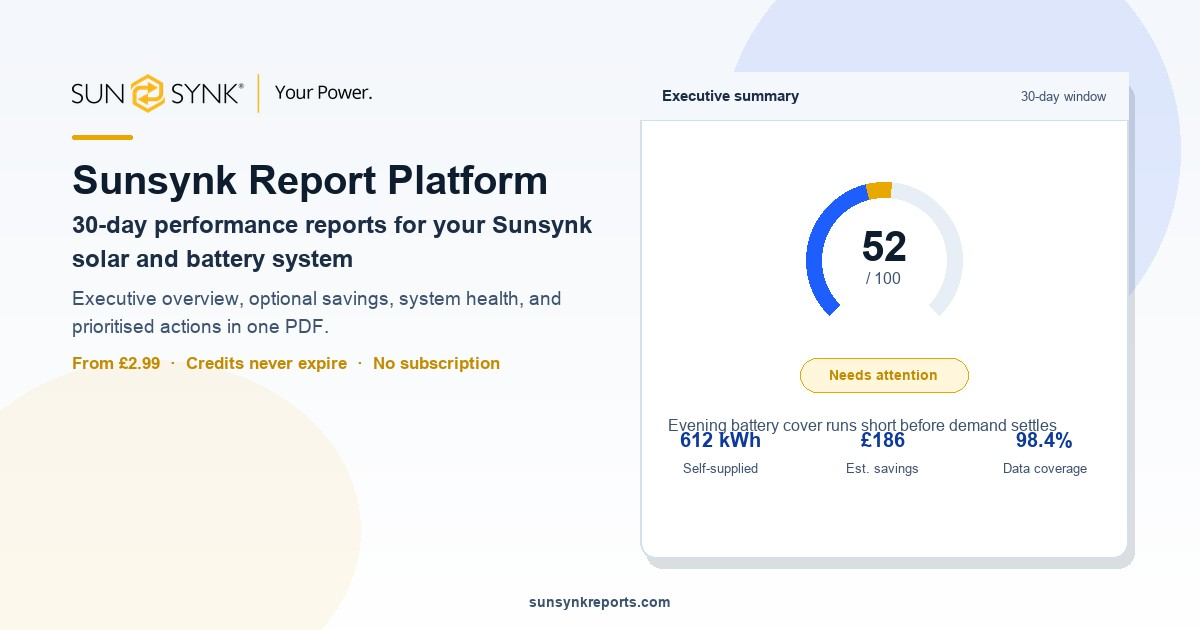
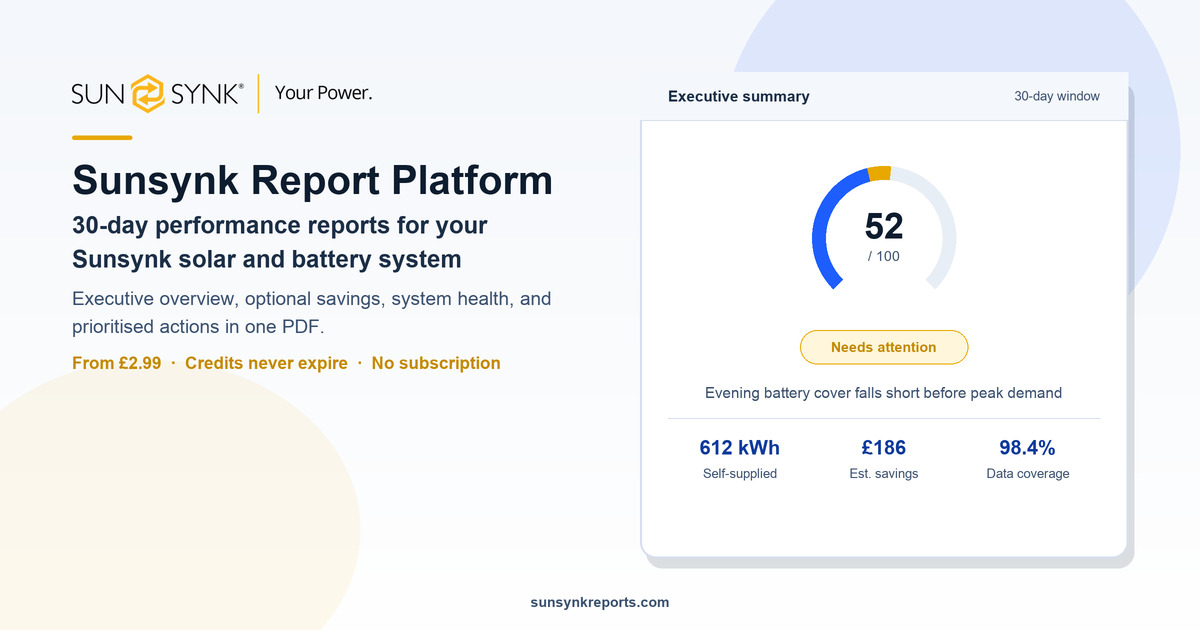
Update brand assets and improve image generation script for enhanced visual consistency
- Replaced existing Open Graph and Twitter images with updated versions for better branding.
- Refactored the image generation script to scale dimensions dynamically, improving adaptability across different resolutions.
- Enhanced text rendering in the generated images by adjusting font sizes and positions based on image dimensions, ensuring clarity and visual appeal.

diff --git a/scripts/generate-brand-assets.py b/scripts/generate-brand-assets.py
@@ -3,7 +3,6 @@
 
 from __future__ import annotations
 
-import math
 import os
 from pathlib import Path
 
@@ -83,125 +82,196 @@ def wrap_text(draw: ImageDraw.ImageDraw, text: str, font: ImageFont.ImageFont, m
 
 def draw_score_ring(draw: ImageDraw.ImageDraw, cx: int, cy: int, radius: int, score: int) -> None:
     bbox = [cx - radius, cy - radius, cx + radius, cy + radius]
-    draw.arc(bbox, 135, 405, fill=SLATE_100, width=16)
+    draw.arc(bbox, 135, 405, fill=SLATE_100, width=max(12, radius // 5))
     progress = score / 100
     end_angle = 135 + 270 * progress
-    draw.arc(bbox, 135, end_angle, fill=BLUE, width=16)
+    draw.arc(bbox, 135, end_angle, fill=BLUE, width=max(12, radius // 5))
     if progress > 0.45:
         mid = 135 + 270 * 0.45
-        draw.arc(bbox, mid, min(end_angle, 135 + 270 * 0.72), fill=GOLD, width=16)
-    score_font = load_font(42, bold=True)
-    sub_font = load_font(16)
-    draw.text((cx, cy - 14), str(score), fill=SLATE_900, font=score_font, anchor="mm")
-    draw.text((cx, cy + 18), "/ 100", fill=SLATE_600, font=sub_font, anchor="mm")
+        draw.arc(bbox, mid, min(end_angle, 135 + 270 * 0.72), fill=GOLD, width=max(12, radius // 5))
+    score_font = load_font(max(28, radius // 2), bold=True)
+    sub_font = load_font(max(12, radius // 5))
+    draw.text((cx, cy - radius // 6), str(score), fill=SLATE_900, font=score_font, anchor="mm")
+    draw.text((cx, cy + radius // 4), "/ 100", fill=SLATE_600, font=sub_font, anchor="mm")
+
+
+def text_block_height(lines: list[str], line_height: int) -> int:
+    if not lines:
+        return 0
+    return len(lines) * line_height
+
+
+def draw_text_lines(
+    draw: ImageDraw.ImageDraw,
+    lines: list[str],
+    x: int,
+    y: int,
+    font: ImageFont.ImageFont,
+    fill: str,
+    line_height: int,
+    align: str = "left",
+    box_width: int | None = None,
+) -> int:
+    """Draw lines and return the y position after the last line."""
+    for i, line in enumerate(lines):
+        ly = y + i * line_height
+        if align == "center" and box_width is not None:
+            draw.text((x + box_width // 2, ly), line, fill=fill, font=font, anchor="ma")
+        else:
+            draw.text((x, ly), line, fill=fill, font=font)
+    return y + text_block_height(lines, line_height)
 
 
 def generate_og_image() -> Image.Image:
-    w, h = 1200, 630
+    scale = 2
+    w, h = 1200 * scale, 630 * scale
     img = vertical_gradient((w, h), SLATE_50, WHITE)
     draw = ImageDraw.Draw(img)
+
+    def s(v: int | float) -> int:
+        return int(round(v * scale))
 
     # Soft brand glow
     glow = Image.new("RGBA", (w, h), (0, 0, 0, 0))
     glow_draw = ImageDraw.Draw(glow)
-    glow_draw.ellipse((720, -80, 1180, 380), fill=(30, 94, 255, 28))
-    glow_draw.ellipse((-60, 360, 360, 700), fill=(232, 168, 0, 18))
+    glow_draw.ellipse((s(720), s(-80), s(1180), s(380)), fill=(30, 94, 255, 28))
+    glow_draw.ellipse((s(-60), s(360), s(360), s(700)), fill=(232, 168, 0, 18))
     img = Image.alpha_composite(img.convert("RGBA"), glow).convert("RGB")
     draw = ImageDraw.Draw(img)
 
     # Left copy block
     logo = Image.open(ASSETS / "sunsynk-logo.png").convert("RGBA")
-    logo_w = 300
+    logo_w = s(300)
     logo_h = int(logo.height * (logo_w / logo.width))
     logo = logo.resize((logo_w, logo_h), Image.Resampling.LANCZOS)
-    paste_rgba(img, logo, (72, 74))
+    paste_rgba(img, logo, (s(72), s(74)))
 
-    draw.rounded_rectangle((72, 74 + logo_h + 22, 132, 74 + logo_h + 26), radius=2, fill=GOLD)
+    draw.rounded_rectangle((s(72), s(74) + logo_h + s(22), s(132), s(74) + logo_h + s(26)), radius=s(2), fill=GOLD)
 
-    title_font = load_font(40, bold=True)
-    sub_font = load_font(24, bold=True)
-    body_font = load_font(19)
-    meta_font = load_font(17, bold=True)
+    title_font = load_font(s(40), bold=True)
+    sub_font = load_font(s(24), bold=True)
+    body_font = load_font(s(19))
+    meta_font = load_font(s(17), bold=True)
 
-    y = 74 + logo_h + 44
-    draw.text((72, y), "Sunsynk Report Platform", fill=SLATE_900, font=title_font)
-    y += 54
+    y = s(74) + logo_h + s(44)
+    draw.text((s(72), y), "Sunsynk Report Platform", fill=SLATE_900, font=title_font)
+    y += s(54)
 
     for line in wrap_text(
         draw,
         "30-day performance reports for your Sunsynk solar and battery system",
         sub_font,
-        520,
+        s(520),
     ):
-        draw.text((72, y), line, fill=SLATE_800, font=sub_font)
-        y += 34
+        draw.text((s(72), y), line, fill=SLATE_800, font=sub_font)
+        y += s(34)
 
-    y += 8
+    y += s(8)
     for line in wrap_text(
         draw,
         "Executive overview, optional savings, system health, and prioritised actions in one PDF.",
         body_font,
-        520,
+        s(520),
     ):
-        draw.text((72, y), line, fill=SLATE_600, font=body_font)
-        y += 28
+        draw.text((s(72), y), line, fill=SLATE_600, font=body_font)
+        y += s(28)
 
-    y += 10
-    draw.text((72, y), "From £2.99  ·  Credits never expire  ·  No subscription", fill=GOLD_DARK, font=meta_font)
+    y += s(10)
+    draw.text((s(72), y), "From £2.99  ·  Credits never expire  ·  No subscription", fill=GOLD_DARK, font=meta_font)
 
     # Right preview card
-    card_x, card_y, card_w, card_h = 640, 72, 488, 486
+    card_x, card_y, card_w, card_h = s(640), s(72), s(488), s(486)
+    pad = s(28)
+    inner_w = card_w - pad * 2
+
     shadow = Image.new("RGBA", (w, h), (0, 0, 0, 0))
     shadow_draw = ImageDraw.Draw(shadow)
     shadow_draw.rounded_rectangle(
-        (card_x + 6, card_y + 10, card_x + card_w + 6, card_y + card_h + 10),
-        radius=16,
+        (card_x + s(6), card_y + s(10), card_x + card_w + s(6), card_y + card_h + s(10)),
+        radius=s(16),
         fill=(13, 28, 46, 36),
     )
     img = Image.alpha_composite(img.convert("RGBA"), shadow).convert("RGB")
     draw = ImageDraw.Draw(img)
 
-    draw.rounded_rectangle((card_x, card_y, card_x + card_w, card_y + card_h), radius=16, fill=WHITE, outline=SLATE_200, width=2)
-    draw.rectangle((card_x, card_y, card_x + card_w, card_y + 48), fill=SLATE_50)
-    draw.line((card_x, card_y + 48, card_x + card_w, card_y + 48), fill=SLATE_200, width=1)
-    bar_font = load_font(15, bold=True)
-    draw.text((card_x + 22, card_y + 24), "Executive summary", fill=SLATE_800, font=bar_font, anchor="lm")
-
-    draw.text((card_x + card_w - 22, card_y + 24), "30-day window", fill=SLATE_600, font=load_font(13), anchor="rm")
+    draw.rounded_rectangle(
+        (card_x, card_y, card_x + card_w, card_y + card_h),
+        radius=s(16),
+        fill=WHITE,
+        outline=SLATE_200,
+        width=s(2),
+    )
+    header_h = s(48)
+    draw.rectangle((card_x, card_y, card_x + card_w, card_y + header_h), fill=SLATE_50)
+    draw.line((card_x, card_y + header_h, card_x + card_w, card_y + header_h), fill=SLATE_200, width=s(1))
+    bar_font = load_font(s(15), bold=True)
+    draw.text((card_x + pad, card_y + header_h // 2), "Executive summary", fill=SLATE_800, font=bar_font, anchor="lm")
+    draw.text((card_x + card_w - pad, card_y + header_h // 2), "30-day window", fill=SLATE_600, font=load_font(s(13)), anchor="rm")
 
     ring_cx = card_x + card_w // 2
-    ring_cy = card_y + 188
-    draw_score_ring(draw, ring_cx, ring_cy, 78, 52)
+    ring_cy = card_y + header_h + s(118)
+    draw_score_ring(draw, ring_cx, ring_cy, s(72), 52)
 
-    pill_font = load_font(14, bold=True)
-    pill_w, pill_h = 168, 34
+    pill_font = load_font(s(14), bold=True)
+    pill_w, pill_h = s(168), s(34)
     pill_x = ring_cx - pill_w // 2
-    pill_y = ring_cy + 98
-    draw.rounded_rectangle((pill_x, pill_y, pill_x + pill_w, pill_y + pill_h), radius=17, fill="#fff6db", outline=GOLD, width=1)
-    draw.text((ring_cx, pill_y + 17), "Needs attention", fill=GOLD_DARK, font=pill_font, anchor="mm")
+    pill_y = ring_cy + s(92)
+    draw.rounded_rectangle(
+        (pill_x, pill_y, pill_x + pill_w, pill_y + pill_h),
+        radius=pill_h // 2,
+        fill="#fff6db",
+        outline=GOLD,
+        width=s(1),
+    )
+    draw.text((ring_cx, pill_y + pill_h // 2), "Needs attention", fill=GOLD_DARK, font=pill_font, anchor="mm")
 
-    issue_font = load_font(16)
-    for i, line in enumerate(
-        wrap_text(draw, "Evening battery cover runs short before demand settles", issue_font, card_w - 56)
-    ):
-        draw.text((card_x + 28, pill_y + 58 + i * 24), line, fill=SLATE_600, font=issue_font)
+    issue_font = load_font(s(15))
+    issue_line_h = s(22)
+    issue_lines = wrap_text(
+        draw,
+        "Evening battery cover falls short before peak demand",
+        issue_font,
+        inner_w,
+    )
+    issue_top = pill_y + pill_h + s(20)
+    issue_bottom = draw_text_lines(
+        draw,
+        issue_lines,
+        card_x + pad,
+        issue_top,
+        issue_font,
+        SLATE_600,
+        issue_line_h,
+        align="center",
+        box_width=inner_w,
+    )
 
-    stat_y = card_y + card_h - 118
+    # Stats block — always below issue text with clear separation
+    stats_top = issue_bottom + s(22)
+    draw.line(
+        (card_x + pad, stats_top - s(10), card_x + card_w - pad, stats_top - s(10)),
+        fill=SLATE_200,
+        width=s(1),
+    )
+
+    stat_value_font = load_font(s(20), bold=True)
+    stat_label_font = load_font(s(13))
     stats = [
         ("612 kWh", "Self-supplied"),
         ("£186", "Est. savings"),
         ("98.4%", "Data coverage"),
     ]
-    col_w = card_w // 3
+    col_w = inner_w // 3
+    value_y = stats_top + s(8)
     for i, (value, label) in enumerate(stats):
-        sx = card_x + i * col_w + col_w // 2
-        draw.text((sx, stat_y), value, fill=BLUE_DARK, font=load_font(20, bold=True), anchor="mm")
-        draw.text((sx, stat_y + 28), label, fill=SLATE_600, font=load_font(13), anchor="mm")
+        sx = card_x + pad + i * col_w + col_w // 2
+        draw.text((sx, value_y), value, fill=BLUE_DARK, font=stat_value_font, anchor="ma")
+        draw.text((sx, value_y + s(30)), label, fill=SLATE_600, font=stat_label_font, anchor="ma")
 
-    footer_font = load_font(14, bold=True)
-    draw.text((w // 2, h - 28), "sunsynkreports.com", fill=SLATE_600, font=footer_font, anchor="mm")
+    footer_font = load_font(s(14), bold=True)
+    draw.text((w // 2, h - s(28)), "sunsynkreports.com", fill=SLATE_600, font=footer_font, anchor="mm")
 
-    return img
+    return img.resize((1200, 630), Image.Resampling.LANCZOS)
 
 
 def generate_apple_touch_icon() -> Image.Image:
@@ -232,8 +302,8 @@ def main() -> None:
     og_rgb = og.convert("RGB")
     og_path = ASSETS / "og-image.jpg"
     twitter_path = ASSETS / "twitter-image.jpg"
-    og_rgb.save(og_path, "JPEG", quality=90, optimize=True, progressive=True)
-    og_rgb.save(twitter_path, "JPEG", quality=90, optimize=True, progressive=True)
+    og_rgb.save(og_path, "JPEG", quality=92, optimize=True, progressive=True, subsampling=0)
+    og_rgb.save(twitter_path, "JPEG", quality=92, optimize=True, progressive=True, subsampling=0)
 
     apple = generate_apple_touch_icon()
     apple_path = ASSETS / "apple-touch-icon.png"